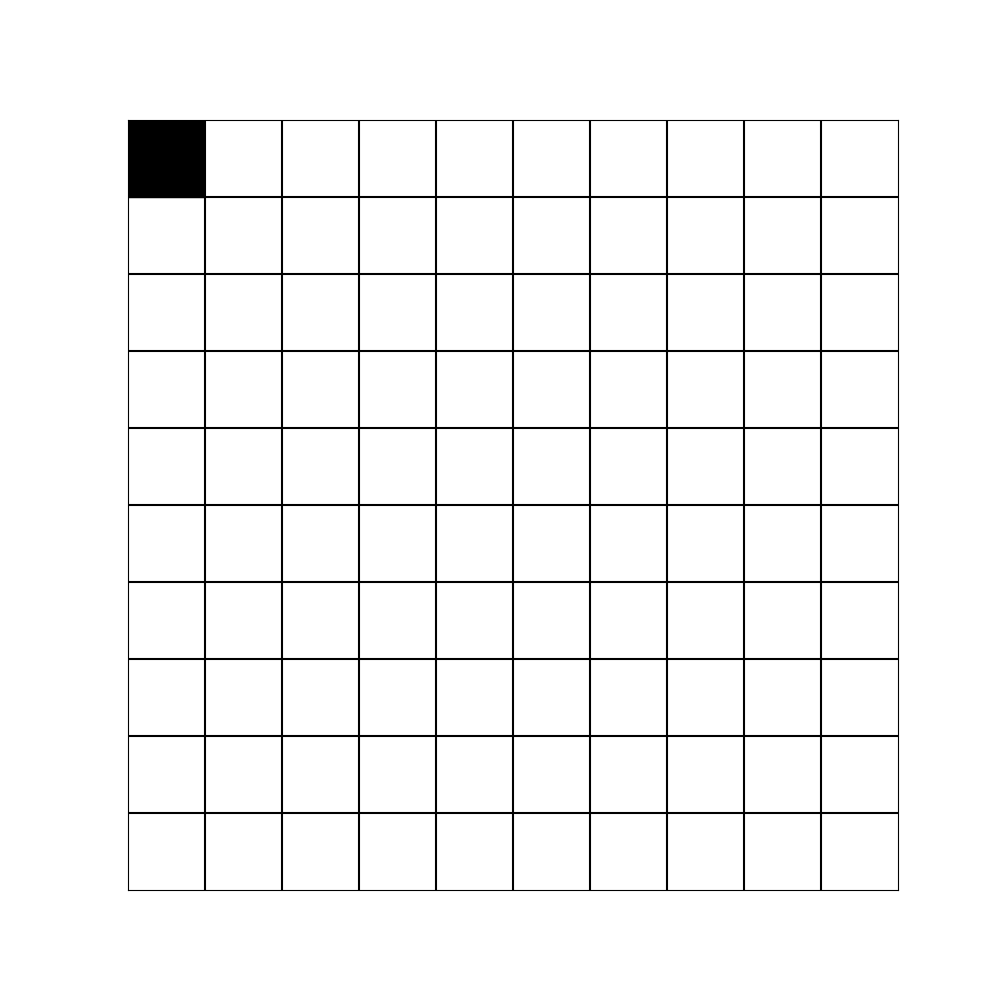
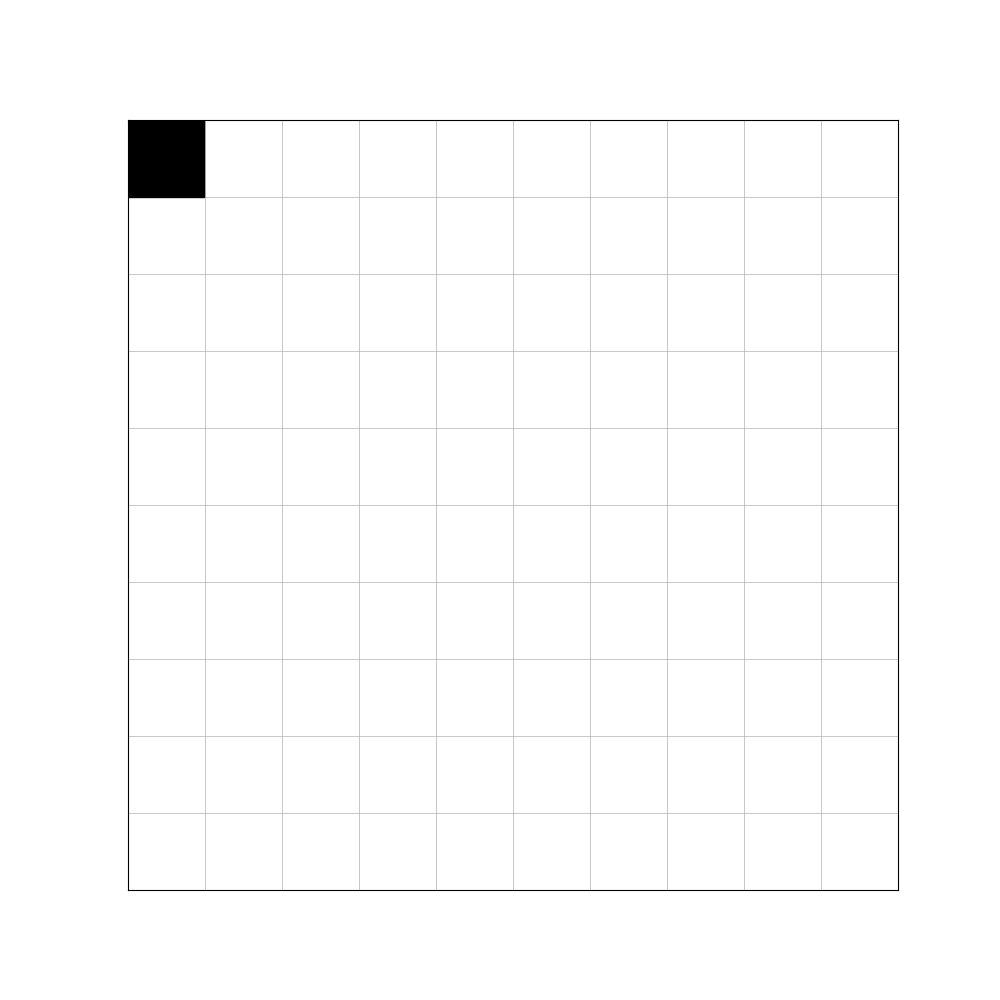
find key code done

diff --git a/measurement.py b/measurement.py
@@ -1,40 +1,41 @@
-from scipy import spatial
+from utils import image_args
+import perception
+from skimage import filters
 from imutils import perspective
 from imutils import contours
 import numpy as np
-import argparse
 import imutils
 import cv2
 
-dist = spatial.distance
 
+def grab_key(file_path):
+    flat_image = cv2.imread(file_path)
+    gray = cv2.cvtColor(flat_image, cv2.COLOR_BGR2GRAY)
+    gray = cv2.GaussianBlur(gray, (7, 7), 0)
 
-def midpoint(ptA, ptB):
-    return ((ptA[0] + ptB[0]) * 0.5, (ptA[1] + ptB[1]) * 0.5)
+    # Close gap between canny edge detection
+    edged = cv2.dilate(gray, None, iterations=1)
+    edged = cv2.erode(edged, None, iterations=1)
 
+    edged = cv2.threshold(gray, 120, 255, cv2.THRESH_BINARY_INV)[1]
 
-# construct the argument parse and parse the arguments
-ap = argparse.ArgumentParser()
-ap.add_argument("-i", "--image", required=True,
-                help="path to the input image")
-ap.add_argument("-w", "--width", type=float, required=True,
-                help="width of the left-most object in the image (in inches)")
-args = vars(ap.parse_args())
+    # find contours
+    cnts = cv2.findContours(edged.copy(), cv2.RETR_LIST, cv2.CHAIN_APPROX_SIMPLE)
+    cnts = imutils.grab_contours(cnts)
 
-# load the image, convert it to grayscale, and blur it slightly
-image = cv2.imread(args["image"])
-gray = cv2.cvtColor(image, cv2.COLOR_BGR2GRAY)
-gray = cv2.GaussianBlur(gray, (7, 7), 0)
-# perform edge detection, then perform a dilation + erosion to
-# close gaps in between object edges
-edged = cv2.Canny(gray, 50, 100)
-edged = cv2.dilate(edged, None, iterations=1)
-edged = cv2.erode(edged, None, iterations=1)
-# find contours in the edge map
-cnts = cv2.findContours(edged.copy(), cv2.RETR_EXTERNAL,
-                        cv2.CHAIN_APPROX_SIMPLE)
-cnts = imutils.grab_contours(cnts)
-# sort the contours from left-to-right and initialize the
-# 'pixels per metric' calibration variable
-(cnts, _) = contours.sort_contours(cnts)
-pixelsPerMetric = None
+    cnts = sorted(cnts, key=cv2.contourArea, reverse=True)[:1]
+
+    for c in cnts:
+        if cv2.contourArea(c) > 15000 and cv2.contourArea(c) > 100000:
+            break
+        orig = flat_image.copy()
+        box = cv2.minAreaRect(c)
+        box = cv2.cv.BoxPoints(box) if imutils.is_cv2() else cv2.boxPoints(box)
+        box = np.array(box, dtype="int")
+        box = perspective.order_points(box)
+        cv2.drawContours(orig, [box.astype("int")], -1, (0, 255, 0), 2)
+        for (x, y) in box:
+            cv2.circle(orig, (int(x), int(y)), 5, (0, 0, 255), -1)
+
+        cv2.imshow("image", imutils.resize(orig, height=650))
+        cv2.waitKey(0)

diff --git a/perception.py b/perception.py
@@ -3,6 +3,8 @@ import cv2
 from skimage import filters
 import imutils
 
+FILE_NAME = "key_flat.png"
+
 
 def order_rectangle_points(vertices):
     # order is [top-left, top-right, bottom-right, bottom-left]
@@ -51,7 +53,7 @@ def find_contours(image):
     image = imutils.resize(image, height=500)
 
     gray = cv2.cvtColor(image, cv2.COLOR_BGR2GRAY)
-    thresh_value, gray = cv2.threshold(gray, 130, 200, cv2.THRESH_BINARY)
+    thresh_value, gray = cv2.threshold(gray, 165, 255, cv2.THRESH_BINARY)
     gray = cv2.GaussianBlur(gray, (5, 5), 0)
     edged = cv2.Canny(gray, 75, 200)
 
@@ -75,9 +77,14 @@ def apply_transform(image, contour_points):
     warped = perception_transform(copy, contour_points.reshape(4, 2) * image.shape[0] / 500.0)
     warped = cv2.cvtColor(warped, cv2.COLOR_BGR2GRAY)
 
-    threshold = filters.threshold_local(warped, 27, offset=10, method="gaussian")
+    # threshold = filters.threshold_local(warped, 27, offset=10, method="gaussian")
+
+    threshold = filters.threshold_minimum(image)
     thresholded_image = (warped > threshold).astype("uint8") * 255
 
-    cv2.imshow("Scanned", imutils.resize(warped, height=650))
-    cv2.imshow("Thresholded", imutils.resize(thresholded_image, height=650))
-    cv2.waitKey(0)
+    # cv2.imshow("Scanned", imutils.resize(warped, height=650))
+    # cv2.imshow("Thresholded", imutils.resize(thresholded_image, height=650))
+    cv2.imwrite(FILE_NAME, thresholded_image)
+    # cv2.waitKey(0)
+
+    return FILE_NAME

diff --git a/main.py b/main.py
@@ -1,7 +1,14 @@
 from utils import image_args
 import perception
+import measurement
+from skimage import filters
+from imutils import perspective
+from imutils import contours
+import numpy as np
+import imutils
 import cv2
 
 image = cv2.imread(image_args()["image"])
-contours = perception.find_contours(image)
-perception.apply_transform(image, contours)
+orig_contours = perception.find_contours(image)
+file_name = perception.apply_transform(image, orig_contours)
+measurement.grab_key(file_name)

diff --git a/grid_generator.py b/grid_generator.py
@@ -6,7 +6,7 @@ y = []
 
 fig, ax = plt.subplots(figsize=(10, 10), dpi=100)
 plt.plot(x, y)
-plt.grid([True, 'major', 'both'], linewidth=1.5, color="black")
+plt.grid([True, 'major', 'both'], linewidth=0.5)
 plt.xlim([0, 10])
 plt.ylim([0, 10])
 ax.set_xticks(range(1, 10), minor=False)
